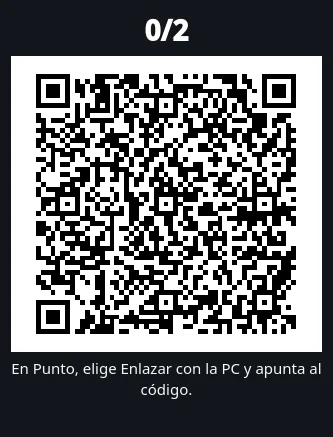
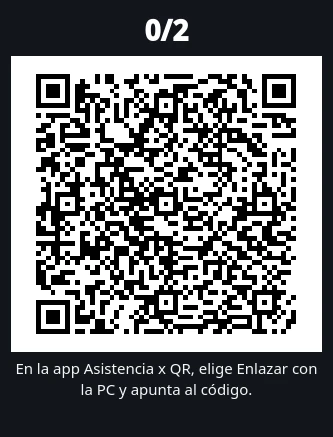
Asistencia x QR 1.0.1 (antes Punto Asistencia): nuevo nombre en la tarjeta App + Programa, id asistencia-x-qr (alias punto-asistencia), descargas 1.0.1, contadores combinados; privacidad, términos, licencias y README

Changed region(s): [[0.0901, 0.1487, 0.9009, 0.7735], [0.03, 0.833, 0.961, 0.9222]]

diff --git a/privacidad.html b/privacidad.html
@@ -106,12 +106,12 @@
       <p><strong>No publiques datos personales</strong>, tuyos ni de otras personas (nombres reales, DNI, teléfonos, correos, direcciones). Si alguien publica datos tuyos, avísame y los borro.</p>
 
       <h2>7. Las apps y el software: tus datos se quedan contigo</h2>
-      <p>Las apps (Mebusco, Modo Noche, Asiste QR (antes PuenteApp Asistencia), Lector Doc y Linterna) el programa Registro de Asistencia Empresarial para Windows y Punto Asistencia (la app Punto junto con su programa de Windows) funcionan <strong>sin conexión a internet</strong> y guardan todo <strong>solo en tu dispositivo</strong>:</p>
+      <p>Las apps (Mebusco, Modo Noche, Asiste QR (antes PuenteApp Asistencia), Lector Doc y Linterna) el programa Registro de Asistencia Empresarial para Windows y Asistencia x QR (antes Punto Asistencia: la app junto con su programa de Windows) funcionan <strong>sin conexión a internet</strong> y guardan todo <strong>solo en tu dispositivo</strong>:</p>
       <ul>
         <li>Los padrones que cargas en Mebusco o en Asiste QR (con nombres y DNI) se quedan en tu teléfono. Estas apps solo leen el archivo que eliges o abres con ellas, y solo escriben donde decides exportar.</li>
         <li>Los registros de asistencia se guardan en tu teléfono o en tu PC (en Windows, en la carpeta <code>%APPDATA%\RegistroAsistencia</code> de tu usuario).</li>
         <li>Lector Doc solo accede a los archivos con tu autorización: los que abres o compartes con la app y la carpeta que eliges con el selector de Android para buscar documentos. El acceso a esa carpeta se mantiene para volver a buscar y se quita al borrar los datos de la app o al desinstalarla. No ve el resto del teléfono, no usa internet y tus documentos no salen de tu teléfono.</li>
-        <li>En <strong>Punto Asistencia</strong>, la app Punto envía el contenido del QR del DNI que escaneas <strong>solo al programa de tu PC</strong>, por tu red wifi o LAN, sin pasar por internet. Lo envía solo a la PC que enlazaste escaneando su QR, con un token propio de cada teléfono y una firma en cada registro. El padrón, la asistencia y el historial se guardan en tu PC (en la carpeta <code>%APPDATA%\PuntoAsistencia</code> de tu usuario), y en el teléfono queda un historial de los últimos 90 días. El programa solo abre el padrón que eliges y escribe donde decides exportar.</li>
+        <li>En <strong>Asistencia x QR</strong> (app + programa), la app envía el contenido del QR del DNI que escaneas <strong>solo al programa de tu PC</strong>, por tu red wifi o LAN, sin pasar por internet. Lo envía solo a la PC que enlazaste escaneando su QR, con un token propio de cada teléfono y una firma en cada registro. El padrón, la asistencia y el historial se guardan en tu PC (en la carpeta <code>%APPDATA%\PuntoAsistencia</code> de tu usuario), y en el teléfono queda un historial de los últimos 90 días. El programa solo abre el padrón que eliges y escribe donde decides exportar.</li>
         <li>Modo Noche y Linterna solo guardan tus ajustes en el teléfono.</li>
       </ul>
       <p>Ni esta web ni yo recibimos esos datos, y no tengo forma de verlos.</p>
@@ -119,8 +119,8 @@
       <h3>Una excepción: ML Kit en Asiste QR (antes PuenteApp Asistencia)</h3>
       <p>Asiste QR usa <strong>ML Kit</strong>, la biblioteca de Google para leer códigos QR. La lectura se hace dentro del teléfono: <strong>las imágenes de la cámara y el contenido de los códigos no salen de tu equipo</strong>. Desde la versión 1.1.0 la app <strong>no tiene permiso de internet</strong>, así que ML Kit no puede enviar nada. La versión 1.0.1 (PuenteApp Asistencia) sí tenía ese permiso, y ML Kit podía enviar a Google métricas de uso y diagnóstico (por ejemplo, el modelo del teléfono, la versión de la app y datos de rendimiento y errores), como explica Google en <a href="https://developers.google.com/ml-kit/android-data-disclosure" target="_blank" rel="noopener">su aviso sobre datos de ML Kit</a>. Yo nunca recibí esas métricas. Si todavía usas la 1.0.1, actualízala.</p>
 
-      <h3>ML Kit en la app Punto (Punto Asistencia)</h3>
-      <p>La app Punto también usa <strong>ML Kit</strong> para leer los códigos QR dentro del teléfono. Necesita el permiso de red para hablar con el programa de tu PC en tu red local, pero en esta app <strong>el envío de métricas de ML Kit a Google está desactivado</strong>: la app no incluye el componente que las enviaría. Las imágenes de la cámara y el contenido de los códigos nunca salen hacia internet.</p>
+      <h3>ML Kit en la app Asistencia x QR (antes Punto)</h3>
+      <p>La app Asistencia x QR del producto App + Programa también usa <strong>ML Kit</strong> para leer los códigos QR dentro del teléfono. Necesita el permiso de red para hablar con el programa de tu PC en tu red local, pero en esta app <strong>el envío de métricas de ML Kit a Google está desactivado</strong>: la app no incluye el componente que las enviaría. Las imágenes de la cámara y el contenido de los códigos nunca salen hacia internet.</p>
 
       <h2>8. Si cargas datos de otras personas</h2>
       <p>Cuando cargas un padrón con nombres y DNI de otras personas, tú decides qué datos usas y para qué. Por eso, <strong>tú eres el responsable de esos datos</strong>. Te recomiendo:</p>

diff --git a/data/apps.js b/data/apps.js
@@ -251,19 +251,20 @@ window.CATALOGO = {
   /* App + Programa: la app Android y el programa de Windows se necesitan juntos */
   appPrograma: [
     {
-      id: "punto-asistencia",
-      nombre: "Punto Asistencia",
-      descripcion: "Toma asistencia con el teléfono y regístrala en tu computadora. La app Punto escanea el QR del DNI y lo envía por tu wifi al programa de Windows, que marca a la persona en el padrón al instante y guarda el historial por fecha. Hasta 2 teléfonos por PC, sin internet.",
+      id: "asistencia-x-qr",
+      idsAnteriores: ["punto-asistencia"], // enlace viejo …/#punto-asistencia
+      nombre: "Asistencia x QR",
+      descripcion: "Antes Punto Asistencia. Toma asistencia con el teléfono y regístrala en tu computadora. La app Asistencia x QR escanea el QR del DNI y lo envía por tu wifi al programa de Windows, que marca a la persona en el padrón al instante y guarda el historial por fecha. Hasta 2 teléfonos por PC, sin internet.",
       categoria: "Gestión",
-      version: "1.0.0",
+      version: "1.0.1",
       plataformas: ["Android", "Windows"],
-      aviso: "La app Punto va en el teléfono y el programa Punto Asistencia (PC) en la computadora, conectados a la misma red wifi. Solo con una de las dos no funciona.",
+      aviso: "La app Asistencia x QR va en el teléfono y el programa Asistencia x QR (PC) en la computadora, conectados a la misma red wifi. Solo con una de las dos no funciona.",
       pasos: [
-        "En la PC: descomprime el .zip, abre la carpeta PuntoAsistencia y haz doble clic en PuntoAsistencia.exe. Carga tu padrón (CSV o Excel) en la pestaña Padrón.",
+        "En la PC: descomprime el .zip, abre la carpeta AsistenciaXQR y haz doble clic en AsistenciaXQR.exe. Carga tu padrón (CSV o Excel) en la pestaña Padrón.",
         "La primera vez, cuando el Firewall de Windows pregunte, permite el acceso solo en «Redes privadas». Si el teléfono no encuentra la PC, ejecuta permitir_firewall_windows.bat como administrador.",
-        "En el teléfono: instala la app Punto y conéctalo a la misma wifi que la PC (no necesita internet).",
+        "En el teléfono: instala la app Asistencia x QR y conéctalo a la misma wifi que la PC (no necesita internet).",
         "En el programa pulsa «Enlazar teléfono». En la app toca «Enlazar con la PC» y escanea el QR que aparece (vence a los 5 minutos). Puedes enlazar hasta 2 teléfonos.",
-        "Listo: escanea el QR del DNI de cada persona con Punto y la PC la marca como presente."
+        "Listo: escanea el QR del DNI de cada persona con la app y la PC la marca como presente."
       ],
       requisitos: {
         sistema: "App: Android 7.0 o superior · Programa: Windows 10 (versión 1809 o posterior) u 11, de 64 bits",
@@ -281,26 +282,26 @@ window.CATALOGO = {
       video: null,
       partes: [
         {
-          nombre: "App Punto (Android)",
-          version: "1.0.0",
-          archivo: "Punto-1.0.0.apk",
+          nombre: "App Asistencia x QR (Android)",
+          version: "1.0.1",
+          archivo: "AsistenciaXQR-1.0.1.apk",
           tamano: "17.0 MB",
-          descarga: "https://github.com/bigwork-create/bigwork-create.github.io/releases/download/punto-v1.0.0/Punto-1.0.0.apk",
-          textoBoton: "Descargar app Punto (APK)",
[1 lines of base64/hex data omitted]
+          descarga: "https://github.com/bigwork-create/bigwork-create.github.io/releases/download/asistenciaxqr-app-v1.0.1/AsistenciaXQR-1.0.1.apk",
+          textoBoton: "Descargar app Asistencia x QR (APK)",
[1 lines of base64/hex data omitted]
         },
         {
-          nombre: "Programa Punto Asistencia (Windows)",
-          version: "1.0.0",
-          archivo: "PuntoAsistencia-1.0.0-windows.zip",
+          nombre: "Programa Asistencia x QR (Windows)",
+          version: "1.0.1",
+          archivo: "AsistenciaXQR-1.0.1-windows.zip",
           tamano: "47.6 MB",
-          descarga: "https://github.com/bigwork-create/punto-asistencia-pc/releases/download/v1.0.0/PuntoAsistencia-1.0.0-windows.zip",
+          descarga: "https://github.com/bigwork-create/punto-asistencia-pc/releases/download/v1.0.1/AsistenciaXQR-1.0.1-windows.zip",
           textoBoton: "Descargar programa para Windows (.zip)",
[2 lines of base64/hex data omitted]
         }
       ],
       releaseFuentes: [
-        { repo: "bigwork-create/bigwork-create.github.io", prefijos: ["punto-"] },
+        { repo: "bigwork-create/bigwork-create.github.io", prefijos: ["asistenciaxqr-", "punto-"] }, // incluye la versión antigua (app Punto)
         { repo: "bigwork-create/punto-asistencia-pc", prefijos: [""] }
       ],
       virustotal: null,

diff --git a/licencias.html b/licencias.html
@@ -65,7 +65,7 @@
           <li><a href="#propias">Licencia de mis apps y de esta web</a></li>
           <li><a href="#android">Apps Android</a></li>
           <li><a href="#windows">Registro de Asistencia (Windows)</a></li>
-          <li><a href="#punto-asistencia">Punto Asistencia (app + programa)</a></li>
+          <li><a href="#asistencia-x-qr">Asistencia x QR (app + programa, antes Punto Asistencia)</a></li>
           <li><a href="#web">Esta web (comentarios)</a></li>
           <li><a href="#textos">Textos completos de las licencias</a></li>
           <li><a href="#verificar">Cómo verificar las descargas</a></li>
@@ -75,7 +75,7 @@
       <h2 id="propias">Licencia de mis apps y de esta web</h2>
       <ul>
         <li><strong>Apps Android:</strong> gratis, para usar y compartir sin modificar. Detalles en los <a href="terminos.html">términos de uso</a>.</li>
-        <li><strong>Punto Asistencia:</strong> la app Punto, gratis como las demás apps Android; el programa de Windows, código abierto con <a href="https://github.com/bigwork-create/punto-asistencia-pc/blob/main/LICENSE" target="_blank" rel="noopener">licencia MIT</a>.</li>
+        <li><strong>Asistencia x QR</strong> (antes Punto Asistencia)<strong>:</strong> la app Asistencia x QR, gratis como las demás apps Android; el programa de Windows, código abierto con <a href="https://github.com/bigwork-create/punto-asistencia-pc/blob/main/LICENSE" target="_blank" rel="noopener">licencia MIT</a>.</li>
         <li><strong>Registro de Asistencia:</strong> código abierto con <a href="https://github.com/bigwork-create/registro-asistencia-desktop/blob/main/LICENSE" target="_blank" rel="noopener">licencia MIT</a>.</li>
         <li><strong>Esta web:</strong> código con <a href="https://github.com/bigwork-create/bigwork-create.github.io/blob/main/LICENSE" target="_blank" rel="noopener">licencia MIT</a>. Solo incluye una biblioteca de terceros, para los comentarios (ver <a href="#web">Esta web</a>).</li>
       </ul>
@@ -229,9 +229,10 @@ Copyright 2017 Unicode, Inc.</pre>
       </div>
       <p>Para cumplir la licencia LGPL-3.0 de Qt, el programa se entrega como una carpeta (dentro de un .zip) y no como un único .exe: así, Qt y PySide6 quedan como bibliotecas separadas en <code>_internal\PySide6</code> que se pueden reemplazar por otra versión compatible. El zip incluye la carpeta <code>LICENSES</code> con los textos completos, la lista exacta de versiones y los enlaces al código fuente de Qt (<a href="https://code.qt.io/" target="_blank" rel="noopener">code.qt.io/</a>). Qt incluye a su vez componentes de terceros, listados en <a href="https://doc.qt.io/qt-6/licenses-used-in-qt.html" target="_blank" rel="noopener">la documentación de Qt</a>.</p>
 
-      <h2 id="punto-asistencia">Punto Asistencia (app Punto + programa de Windows)</h2>
-      <p>Punto Asistencia tiene dos partes que se usan juntas: la app <strong>Punto 1.0.0</strong> para Android y el programa <strong>Punto Asistencia (PC) 1.0.0</strong> para Windows. Cada una muestra sus licencias dentro: la app en <strong>Ajustes → Licencias</strong> y el programa en <strong>Ayuda → Licencias de terceros</strong>.</p>
-      <h3 id="punto-app">App Punto 1.0.0 (Android)</h3>
+      <span id="punto-asistencia"></span>
+      <h2 id="asistencia-x-qr">Asistencia x QR (app + programa de Windows, antes Punto Asistencia)</h2>
+      <p>Asistencia x QR tiene dos partes que se usan juntas: la app <strong>Asistencia x QR 1.0.1</strong> para Android (antes app Punto) y el programa <strong>Asistencia x QR (PC) 1.0.1</strong> para Windows. Cada una muestra sus licencias dentro: la app en <strong>Ajustes → Licencias</strong> y el programa en <strong>Ayuda → Licencias de terceros</strong>.</p>
+      <h3 id="punto-app">App Asistencia x QR 1.0.1 (Android)</h3>
       <div class="legal__tabla-wrap">
         <table>
           <thead><tr><th scope="col">Biblioteca</th><th scope="col">Licencia</th><th scope="col">Proyecto</th></tr></thead>
@@ -260,7 +261,7 @@ Copyright 2017 Unicode, Inc.</pre>
         </table>
       </div>
       <p>La app necesita el permiso de red solo para hablar con el programa de tu PC; el envío de métricas de ML Kit a Google está desactivado (ver la <a href="privacidad.html">política de privacidad</a>).</p>
-      <h3 id="punto-pc">Programa Punto Asistencia (PC) 1.0.0 (Windows)</h3>
+      <h3 id="punto-pc">Programa Asistencia x QR (PC) 1.0.1 (Windows)</h3>
       <div class="legal__tabla-wrap">
         <table>
           <thead><tr><th scope="col">Componente</th><th scope="col">Licencia</th><th scope="col">Proyecto</th></tr></thead>

diff --git a/terminos.html b/terminos.html
@@ -74,7 +74,7 @@
       <h2>5. Qué puedes hacer con el software</h2>
       <ul>
         <li><strong>Apps Android</strong> (Mebusco, Modo Noche, Asiste QR (antes PuenteApp Asistencia), Lector Doc y Linterna): puedes instalarlas y usarlas sin costo, en el trabajo o en casa, y compartir el archivo APK original sin modificarlo. Si las compartes, recomienda descargarlas desde esta web para tener la última versión.</li>
-        <li><strong>Punto Asistencia</strong> (app Punto para Android + programa para Windows): funciona solo con las dos partes juntas. Puedes usar y compartir el APK original de la app como las demás apps Android. El programa de Windows es de código abierto con <a href="https://github.com/bigwork-create/punto-asistencia-pc/blob/main/LICENSE" target="_blank" rel="noopener">licencia MIT</a>; su código está en <a href="https://github.com/bigwork-create/punto-asistencia-pc" target="_blank" rel="noopener">GitHub</a>.</li>
+        <li><strong>Asistencia x QR</strong> (antes Punto Asistencia; app para Android + programa para Windows): funciona solo con las dos partes juntas. Puedes usar y compartir el APK original de la app como las demás apps Android. El programa de Windows es de código abierto con <a href="https://github.com/bigwork-create/punto-asistencia-pc/blob/main/LICENSE" target="_blank" rel="noopener">licencia MIT</a>; su código está en <a href="https://github.com/bigwork-create/punto-asistencia-pc" target="_blank" rel="noopener">GitHub</a>.</li>
         <li><strong>Registro de Asistencia Empresarial</strong> (Windows): su código es abierto con <a href="https://github.com/bigwork-create/registro-asistencia-desktop/blob/main/LICENSE" target="_blank" rel="noopener">licencia MIT</a>. Puedes usarlo, copiarlo, modificarlo y redistribuirlo según esa licencia. El código está en <a href="https://github.com/bigwork-create/registro-asistencia-desktop" target="_blank" rel="noopener">GitHub</a>.</li>
         <li><strong>El código de esta web</strong> también usa la <a href="https://github.com/bigwork-create/bigwork-create.github.io/blob/main/LICENSE" target="_blank" rel="noopener">licencia MIT</a>. Los nombres “Hubert Apps”, los iconos y las capturas no se incluyen en esa licencia.</li>
         <li><strong>Componentes de terceros:</strong> las apps y el programa usan bibliotecas de otros autores, cada una con su propia licencia. Puedes verlas en <a href="licencias.html">Licencias</a> y dentro de cada app.</li>

diff --git a/README.md b/README.md
@@ -64,7 +64,7 @@ Abre `data/apps.js`. Hay tres listas: `aplicaciones` (Android), `appPrograma` (c
 }
 ```
 
-- Las apps publicadas son Mebusco, Modo Noche (antes MineB), Asiste QR (antes PuenteApp Asistencia), Lector Doc y Linterna. En «App + Programa» está Punto Asistencia (app Punto + programa de Windows, código en `bigwork-create/punto-asistencia-pc`). Usa `ejemplo: true` solo para tarjetas de muestra.
+- Las apps publicadas son Mebusco, Modo Noche (antes MineB), Asiste QR (antes PuenteApp Asistencia), Lector Doc y Linterna. En «App + Programa» está Asistencia x QR (antes Punto Asistencia: app Android + programa de Windows, código en `bigwork-create/punto-asistencia-pc`). Usa `ejemplo: true` solo para tarjetas de muestra.
 - **VirusTotal:** si `virustotal` tiene un enlace (ej. `"https://www.virustotal.com/gui/file/SHA256_DEL_APK"`), aparece
   "Ver análisis en VirusTotal" debajo del botón de descarga. Con `null` no se muestra nada. Pon el enlace solo
   después de subir el archivo a VirusTotal y comprobar que el análisis existe.
